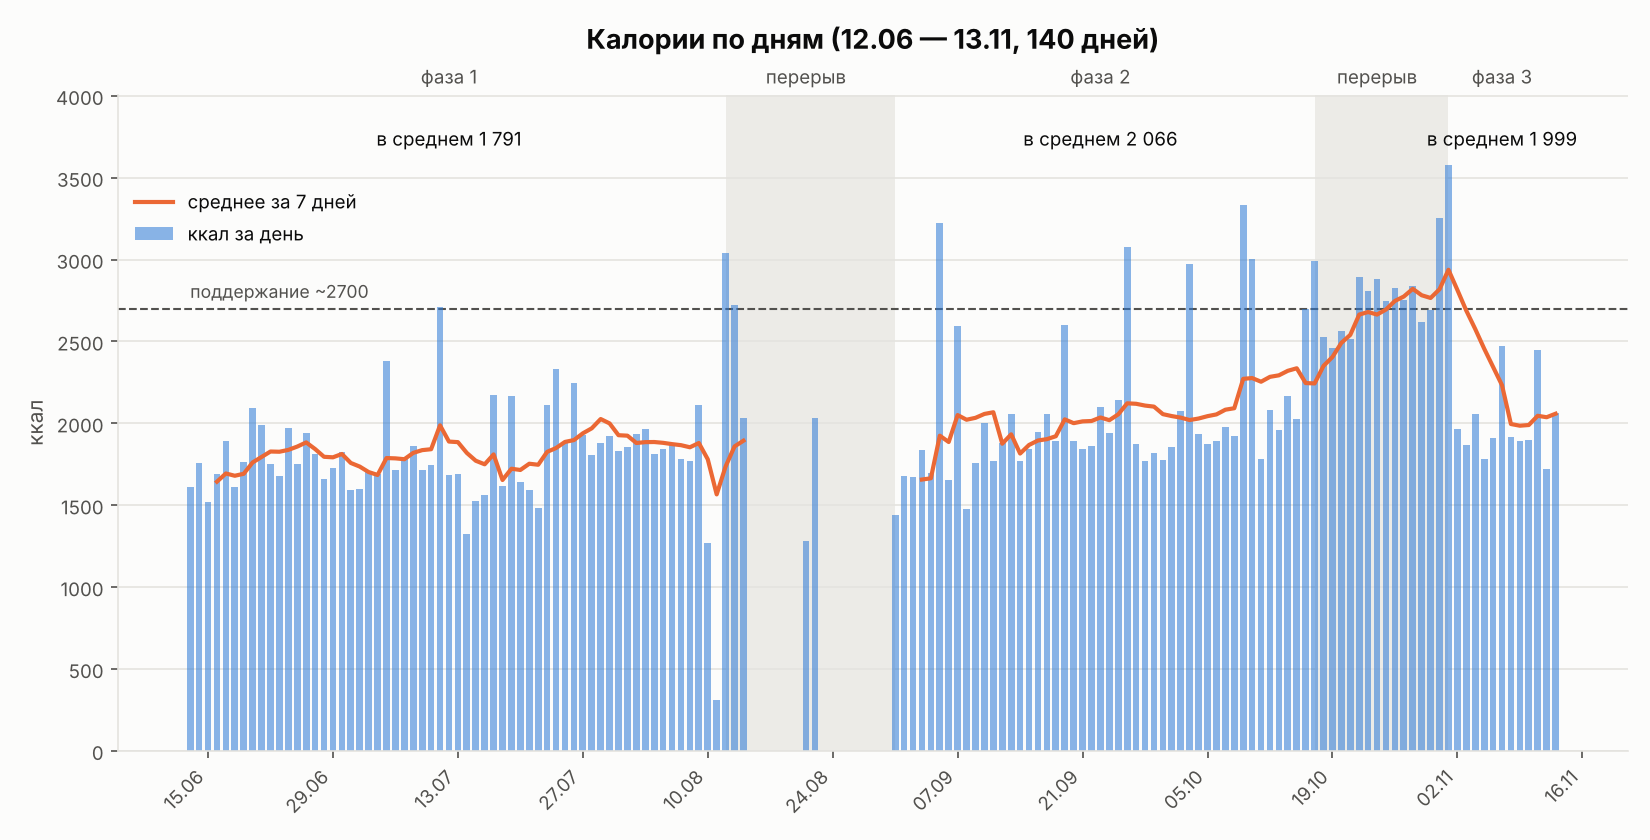
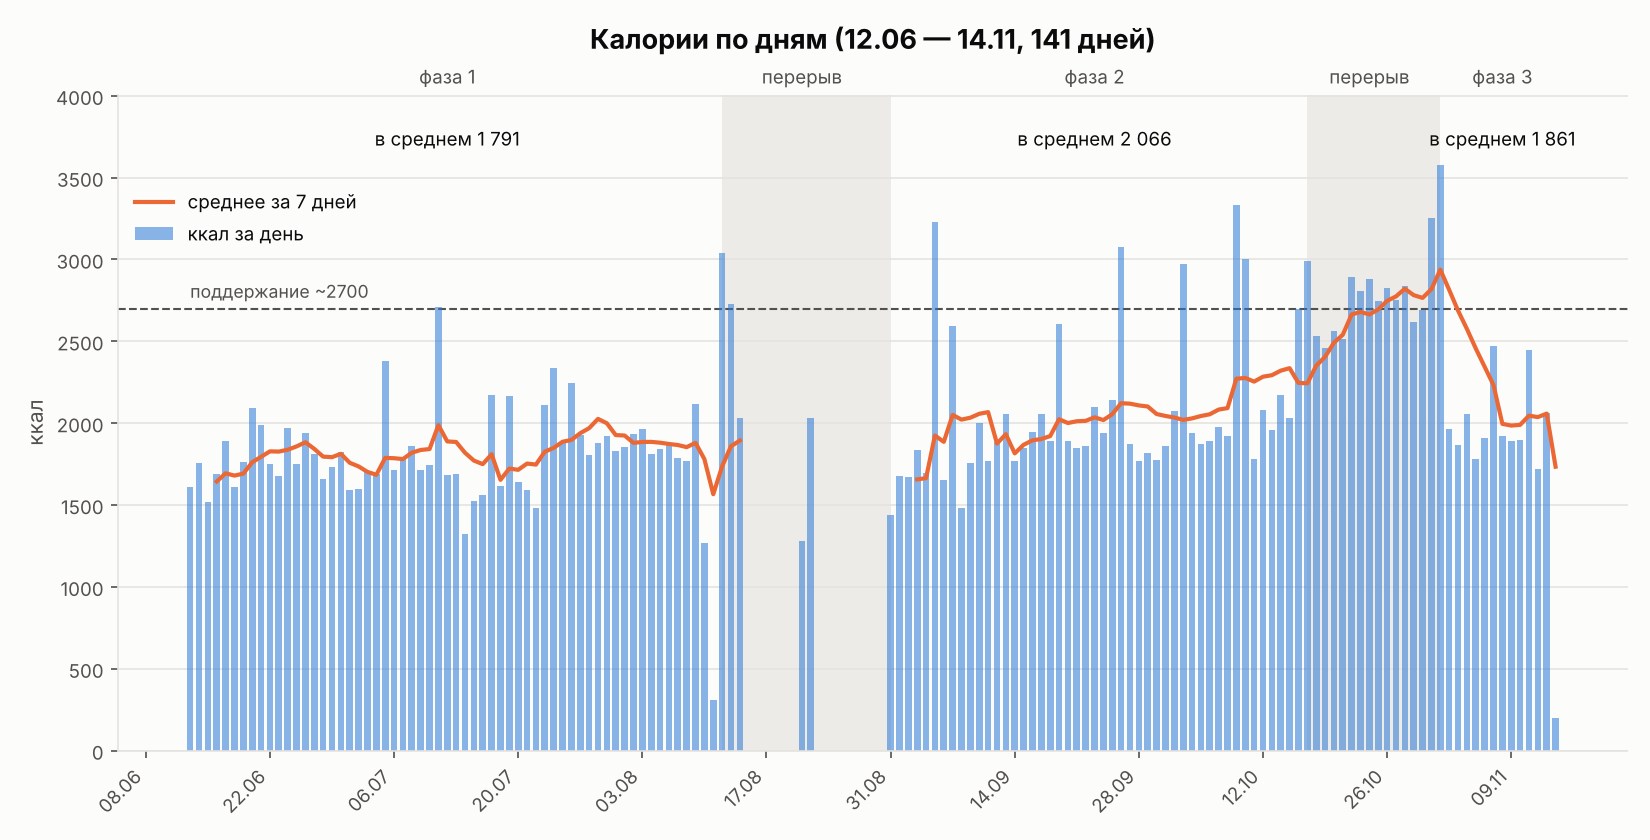
Журнал еды 14.11: кофе ВиТ с сиропом «Попкорн-Карамель»
199 ккал / Б 6 г за порцию 324 мл. Суббота, потолок 2500 — осталось 2301.

Claude-Session: https://claude.ai/code/session_01BcPogZpufV1jxrQv9Sbikk

diff --git a/health/журнал-еды.md b/health/журнал-еды.md
@@ -11,6 +11,7 @@
 
 | Дата | Кратко | Ккал | Белок |
 |---|---|---|---|
+| 14.11 (сб) | фаза 3, день 13 · суббота, потолок 2500 ккал · утром 73,0 (минимум плана) · [ВиТ] кофе с сиропом «Попкорн-Карамель» 324 мл (день идёт) | ~199＋ | ~6＋ г |
 | 13.11 (пт) | фаза 3, день 12 · цель 1900 ккал · утром 73,4 (минимум фазы 3) · завтрак варёные яйца 160 г + варёная грудка 256 г + грейпфрут и дыня 374 г + хрен 20 г / сливки 10% 20 г + ещё 20 г / флэт уайт 250 мл на безлактозном молоке 1,5% / [Делимарше] напиток из черноплодной рябины + куриный бургер по-азиатски + макароны + салат с пастрами + киви / «Ягодный Таро Латте» 275 г / ужин мандарины 200 г + яблоки 244 г + клубника 196 г / молоко 1,5% 102 г · день завершён, +162 ккал к цели (12–13.11 вместе −16) | ~2062＋ | ~161＋ г |
 | 12.11 (чт) | фаза 3, день 11 · цель 1900 ккал · утром 73,6 (минимум фазы 3) · 🏋 зал, ноги: выпады в Смите 45×10 на ногу, разгибания ног 70×8, жим гантелей сидя 17,5×10 · завтрак яблоки 325 г + продукт 188 г (по КБЖУ — куриное филе) + варёные яйца 200 г + хрен «Махеевъ» 22 г / обед овощи на пару 230 г + филе куриной грудки 182 г + чипсы из индейки 100 г / ужин мандарины 193 г + молоко 1,5% 103 г + голубика 129 г + яблоки 269 г / молоко 1,5% 127 г + ещё 200 г · день завершён, ~178 ккал до цели | ~1722 | ~179 г |
 | 11.11 (ср) | фаза 3, день 10 · цель 1900 ккал · утром 74,3 · завтрак исландский скир черника и малина 150 г + филе куриной грудки 182 г / [АВ] капучино 300 мл / [HSE] гречка 150 г + печень по-строгановски 125 г + щи зелёные 250 г + «Цезарь» 100 г + компот 200 г / [ВиТ] капучино 300 мл / флэт уайт 220 мл на молоке 3,2% / ужин куриная грудка с лимонным перцем 177 г + курица с запечённым чесноком 167 г / ужин 2 мандарины 210 г + яблоки 312 г · день завершён, +549 ккал к цели | ~2449 | ~198 г |
@@ -154,6 +155,19 @@
 | 13.06 (сб) | творог+банан / курица+гречка+салат / 3 яйца+огурец / рыба+гречка+огурец | ~1610 | ~170 г |
 | 14.06 (вс) | творог+банан / курица+булгур+салат+бульон / яблоко+3 яйца+огурец / сардина+булгур+огурец | ~1755 | ~168 г |
 | 15.06 (пн) | творог+банан / [вне дома] салат+суп+курица+гречка / 4 яйца / курица+бульон+яблоко+огурец | ~1519 | ~145 г |
+
+---
+
+## 14 ноября (сб) — фаза 3, день 13 · утром 73,0
+
+День в процессе. **Субботний потолок — 2500 ккал.** Белок — ориентир **150 г (140–160)**; отдельных субботних целей по жирам и углеводам нет.
+
+| Приём | Что | Ккал | Б | Ж | У |
+|---|---|---|---|---|---|
+| Кофе [ВиТ] | кофе с молоком 3,2% и сиропом «Попкорн-Карамель» 324 мл (за порцию по приложению «Вкусно — и точка»; название напитка на скриншоте не видно) | 199 | 6 | 6 | 30 |
+| **Пока за день** | | **199** | **6** | **6** | **30** |
+
+Заметка: напиток из приложения «Вкусно — и точка» по скриншоту: эспрессо, молоко 3,2%, сироп «Попкорн-Карамель», объём 324 мл; в порции 199 ккал / Б 6 / Ж 6 / У 30 г. До субботнего потолка 2500 ккал осталось 2301 ккал; до белка 140–160 г — 134–154 г.
 
 ---
 
